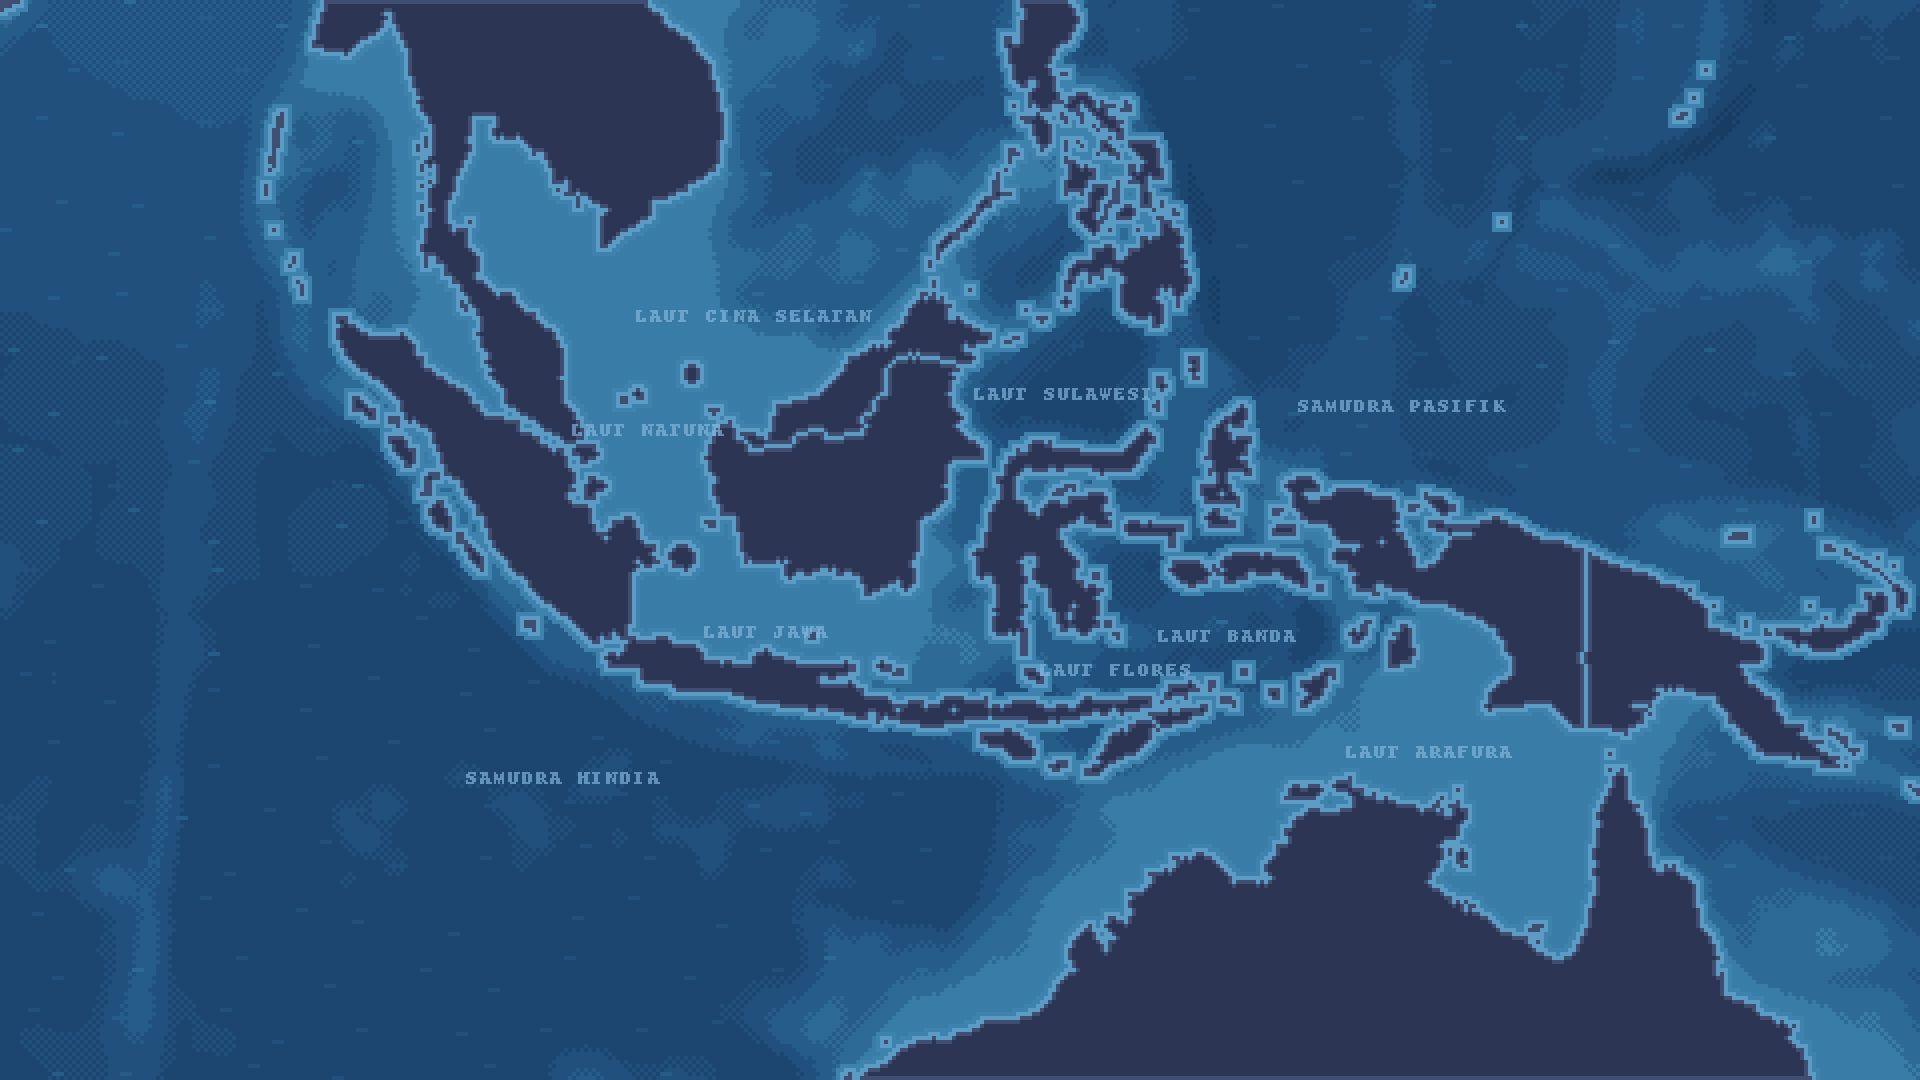
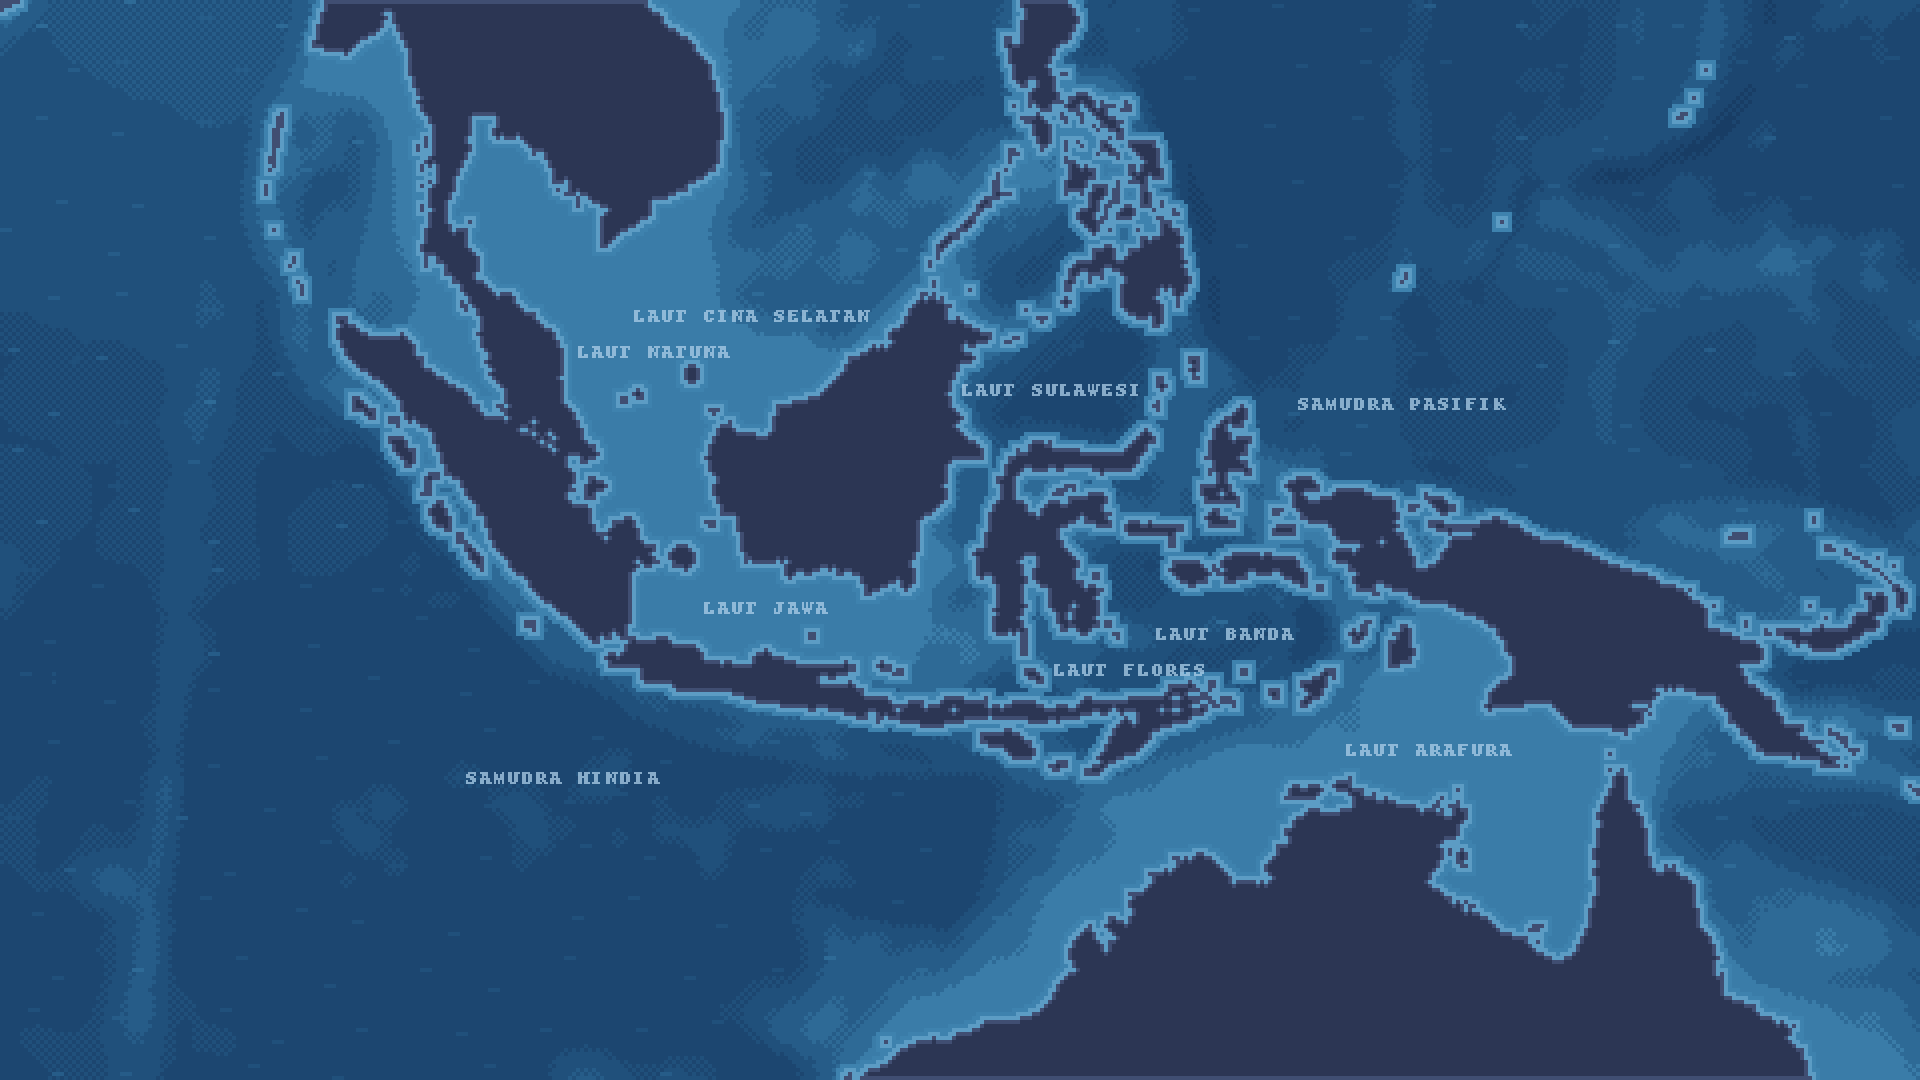
Perhalus map

diff --git a/tools/make_sea.py b/tools/make_sea.py
@@ -50,6 +50,11 @@ SEA_NAMES = [  # (nama, lon, lat)
 ]
 
 
+# Jangkauan geser maksimum (setengah resolusi) untuk laut yang sempit, supaya namanya tidak pindah
+# ke laut lain walau harus sedikit mepet ke pulau.
+SEA_SEARCH = {"LAUT FLORES": (30, 12), "LAUT SULAWESI": (36, 14)}
+
+
 def in_bbox(bbox):
     x0, y0, x1, y1 = bbox
     return not (x1 < BBOX[0] or x0 > BBOX[2] or y1 < BBOX[1] or y0 > BBOX[3])
@@ -191,8 +196,63 @@ REFINED = {
     "foam": (92, 156, 196),
     "land": (44, 54, 84),
     "land_edge": (64, 78, 114),
-    "label": (132, 182, 220),
+    "label": (172, 206, 232),
+    "label_edge": (16, 40, 76),
 }
+
+
+def draw_sea_labels(out, proj, dist_lr, W, H):
+    """Nama laut: huruf bitmap 2x berjarak, tipis (tanpa garis tepi), warna terang lembut.
+    Posisi dicari otomatis di sekitar koordinatnya: kotak teks (plus jarak aman) sebisa mungkin
+    tidak menyentuh daratan/buih/paparan dan tidak bertumpuk dengan nama laut lain."""
+    font = ImageFont.load_default_imagefont()
+    hw, hh = W // 2, H // 2
+    # Daerah terlarang (setengah resolusi): daratan, buih, dan paparan dangkal.
+    avoid_lr = dist_lr <= 2
+    avoid = np.array(Image.fromarray((avoid_lr * 255).astype(np.uint8)).resize((hw, hh), Image.NEAREST)) > 0
+    integ = np.pad(avoid.astype(np.int32).cumsum(0).cumsum(1), ((1, 0), (1, 0)))
+
+    def count(x0, y0, x1, y1):
+        x0, y0 = max(0, x0), max(0, y0)
+        x1, y1 = min(hw, x1), min(hh, y1)
+        if x1 <= x0 or y1 <= y0:
+            return 0
+        return int(integ[y1, x1] - integ[y0, x1] - integ[y1, x0] + integ[y0, x0])
+
+    probe = ImageDraw.Draw(Image.new("L", (1, 1)))
+    placed = []
+    layer = Image.new("RGBA", (hw, hh), (0, 0, 0, 0))
+    d = ImageDraw.Draw(layer)
+    for name, lon, lat in SEA_NAMES:
+        x, y = proj(lon, lat)
+        widths = [probe.textlength(ch, font=font) + 1 for ch in name]
+        tw, th = int(sum(widths)), 11
+        cx0, cy0 = x / 2.0, y / 2.0
+        best = None
+        rx, ry = SEA_SEARCH.get(name, (110, 60))
+        for dy in range(-ry, ry + 1, 2):
+            for dx in range(-rx, rx + 1, 2):
+                bx, by = int(cx0 + dx - tw / 2), int(cy0 + dy)
+                pad = 2
+                hit = count(bx - pad, by - pad, bx + tw + pad, by + th + pad)
+                clash = any(not (bx + tw + 8 < px0 or px1 + 8 < bx or by + th + 6 < py0 or py1 + 6 < by)
+                            for px0, py0, px1, py1 in placed)
+                # Wajib: tidak bertumpuk dengan nama lain; sangat diutamakan: bersih dari daratan;
+                # lalu sedekat mungkin dengan koordinat aslinya.
+                cost = (1e9 if clash else 0) + (1e6 if hit else 0) + hit * 1000 + (dx * dx + dy * dy * 3) ** 0.5
+                if best is None or cost < best[0]:
+                    best = (cost, bx, by)
+        _, bx, by = best
+        placed.append((bx, by, bx + tw, by + th))
+        cx = bx
+        for ch, cw in zip(name, widths):
+            d.text((cx, by), ch, font=font, fill=REFINED["label"] + (190,))
+            cx += cw
+        print("  %-20s geser (%+d, %+d)" % (name, (bx + tw / 2 - cx0) * 2, (by - cy0) * 2))
+    layer = layer.resize((W, H), Image.NEAREST)
+    out = out.convert("RGBA")
+    out.alpha_composite(layer)
+    return out.convert("RGB")
 
 
 def make_refined(a):
@@ -219,8 +279,15 @@ def make_refined(a):
     ox, oy = EXT_X // PIXEL, EXT_Y // PIXEL
     indo_full = np.zeros_like(land_lr)
     indo_full[oy:oy + indo.shape[0], ox:ox + indo.shape[1]] = indo
-    # NE tetangga di dalam bingkai peta tidak boleh menimpa laut Indonesia (beda sumber data).
-    land_lr = (land_lr & ~ndimage.binary_dilation(indo_full, iterations=1)) | indo_full
+    # Daratan tetangga (NE) dan Indonesia (cells.png) dari sumber berbeda: tetangga tidak boleh
+    # menimpa Indonesia, dan celah tipis di PERBATASAN DARAT (mis. Kalimantan-Malaysia) diisi sebagai
+    # daratan tetangga, supaya tidak muncul "laut" berbuih di tengah pulau.
+    foreign = land_lr & ~indo_full
+    both = foreign | indo_full
+    near_f = ndimage.binary_dilation(foreign, iterations=3)
+    near_i = ndimage.binary_dilation(indo_full, iterations=3)
+    gap = ndimage.binary_closing(both, structure=np.ones((3, 3)), iterations=3) & ~both & near_f & near_i
+    land_lr = foreign | gap | indo_full
     d_lr = ndimage.gaussian_filter(d_lr, sigma=2.2)
     pal = np.array(REFINED["sea"], dtype=np.uint8)
     f = np.interp(d_lr, REFINED["depths"], np.arange(len(REFINED["depths"]), dtype=np.float32))
@@ -250,22 +317,7 @@ def make_refined(a):
     img[edge] = REFINED["land_edge"]
     out = Image.fromarray(img, "RGB").resize((W, H), Image.NEAREST)
     if not a.no_labels:
-        # Nama laut: huruf bitmap 2x dengan jarak antarhuruf, warna lembut.
-        layer = Image.new("RGBA", (W // 2, H // 2), (0, 0, 0, 0))
-        d = ImageDraw.Draw(layer)
-        font = ImageFont.load_default_imagefont()
-        for name, lon, lat in SEA_NAMES:
-            x, y = proj(lon, lat)
-            # Jarak antarhuruf +1 piksel.
-            widths = [d.textlength(ch, font=font) + 1 for ch in name]
-            cx = round(x / 2 - sum(widths) / 2)
-            for ch, cw in zip(name, widths):
-                d.text((cx, round(y / 2)), ch, font=font, fill=REFINED["label"] + (170,))
-                cx += cw
-        layer = layer.resize((W, H), Image.NEAREST)
-        out = out.convert("RGBA")
-        out.alpha_composite(layer)
-        out = out.convert("RGB")
+        out = draw_sea_labels(out, proj, dist, W, H)
     out.save(a.out)
     print("ok (rapi):", a.out)
 

diff --git a/tools/place_labels.py b/tools/place_labels.py
@@ -1,0 +1,74 @@
+"""Hitung posisi label tiap wilayah di peta (nama + persen) supaya berada di bagian daratan yang paling
+lega, lalu tulis ke data/provinces/<id>.tres sebagai label_offset.
+
+Cara: dari gambar wilayah (assets/map/regions/<id>.png, 1280x720) dibuat peta jarak ke tepi wilayah.
+Jarak mendatar dihitung lebih "mahal" karena kotak label lebih lebar daripada tinggi, jadi titik
+terpilih adalah tempat kotak label paling muat. Sedikit dipilih yang dekat map_position supaya label
+tidak melompat ke pulau kecil yang jauh. Label lain yang sudah ditempatkan dihindari.
+
+Kotak teks label (scenes/ui/province_node.tscn): pusat teks ada 30 px di bawah titik label
+(nama di y 31..47, persen di 45..61, node digeser -16), jadi titik label = pusat teks - (0, 30).
+
+Pakai:  python3 tools/place_labels.py           (tulis)
+        python3 tools/place_labels.py --dry     (hanya cetak)
+"""
+import os
+import re
+import sys
+
+import numpy as np
+from PIL import Image
+from scipy import ndimage
+
+ROOT = os.path.dirname(os.path.dirname(os.path.abspath(__file__)))
+PROV = os.path.join(ROOT, "data", "provinces")
+TEXT_DY = 30  # pusat teks relatif titik label
+BOX = (64, 32)  # perkiraan kotak teks (lebar, tinggi) untuk menghindari tabrakan antar-label
+
+
+def read(path):
+    s = open(path, encoding="utf-8").read()
+    mp = re.search(r"map_position = Vector2\(([-\d.]+), ([-\d.]+)\)", s)
+    reg = re.search(r'path="res://(assets/map/regions/[^"]+\.png)"', s)
+    name = re.search(r'short_name = "([^"]*)"', s)
+    return s, (float(mp.group(1)), float(mp.group(2))), reg.group(1) if reg else None, name.group(1) if name else ""
+
+
+def main():
+    dry = "--dry" in sys.argv
+    items = []
+    for fn in sorted(os.listdir(PROV)):
+        if fn.endswith(".tres"):
+            s, mp, reg, name = read(os.path.join(PROV, fn))
+            if reg:
+                a = np.array(Image.open(os.path.join(ROOT, reg)).convert("RGBA"))[:, :, 3] > 127
+                items.append([fn, s, mp, a, name])
+    # Wilayah paling kecil ditempatkan dulu (pilihannya paling sedikit).
+    items.sort(key=lambda it: it[3].sum())
+    taken = np.zeros_like(items[0][3])
+    for it in items:
+        fn, s, mp, mask, name = it
+        # Jarak ke tepi; arah mendatar dibobot 0.5 (kotak label ~2x lebih lebar dari tinggi).
+        dt = ndimage.distance_transform_edt(np.pad(mask, 1), sampling=[1.0, 0.5])[1:-1, 1:-1]
+        yy, xx = np.mgrid[0:mask.shape[0], 0:mask.shape[1]]
+        near = np.hypot(xx - mp[0], (yy - mp[1]) * 1.2)
+        score = np.minimum(dt, 18.0) - near * 0.04
+        score[~mask] = -1e9
+        # Hindari kotak label lain.
+        score[taken] -= 1000
+        y, x = np.unravel_index(np.argmax(score), score.shape)
+        label = (round(x - mp[0]), round(y - TEXT_DY - mp[1]))
+        bw, bh = BOX
+        taken[max(0, y - bh):y + bh, max(0, x - bw):x + bw] = True
+        print("%-14s %-14s teks di (%4d,%4d)  ruang %.1f  label_offset %s" % (fn, name, x, y, dt[y, x], label))
+        line = "label_offset = Vector2(%d, %d)" % label
+        if re.search(r"^label_offset = .*$", s, re.M):
+            s = re.sub(r"^label_offset = .*$", line, s, flags=re.M)
+        else:
+            s = re.sub(r"^(map_position = .*)$", r"\1\n" + line, s, count=1, flags=re.M)
+        if not dry:
+            open(os.path.join(PROV, fn), "w", encoding="utf-8").write(s)
+
+
+if __name__ == "__main__":
+    main()

diff --git a/tools/make_title_bg.py b/tools/make_title_bg.py
@@ -439,10 +439,6 @@ def near_layer(bake_palms=True):
     # Semak di kanan bawah.
     for bx, by, br in ((296, 168, 7), (308, 166, 9), (318, 167, 6)):
         d.ellipse([bx - br, by - br * 0.7, bx + br, by + br], fill=NEAR)
-    # Perahu kecil di danau.
-    d.polygon([(120, 168), (142, 168), (138, 172), (124, 172)], fill=NEAR2)
-    d.line([(131, 168), (131, 158)], fill=NEAR2)
-    px(im, 132, 158, LAMP)
     return im
 
 
